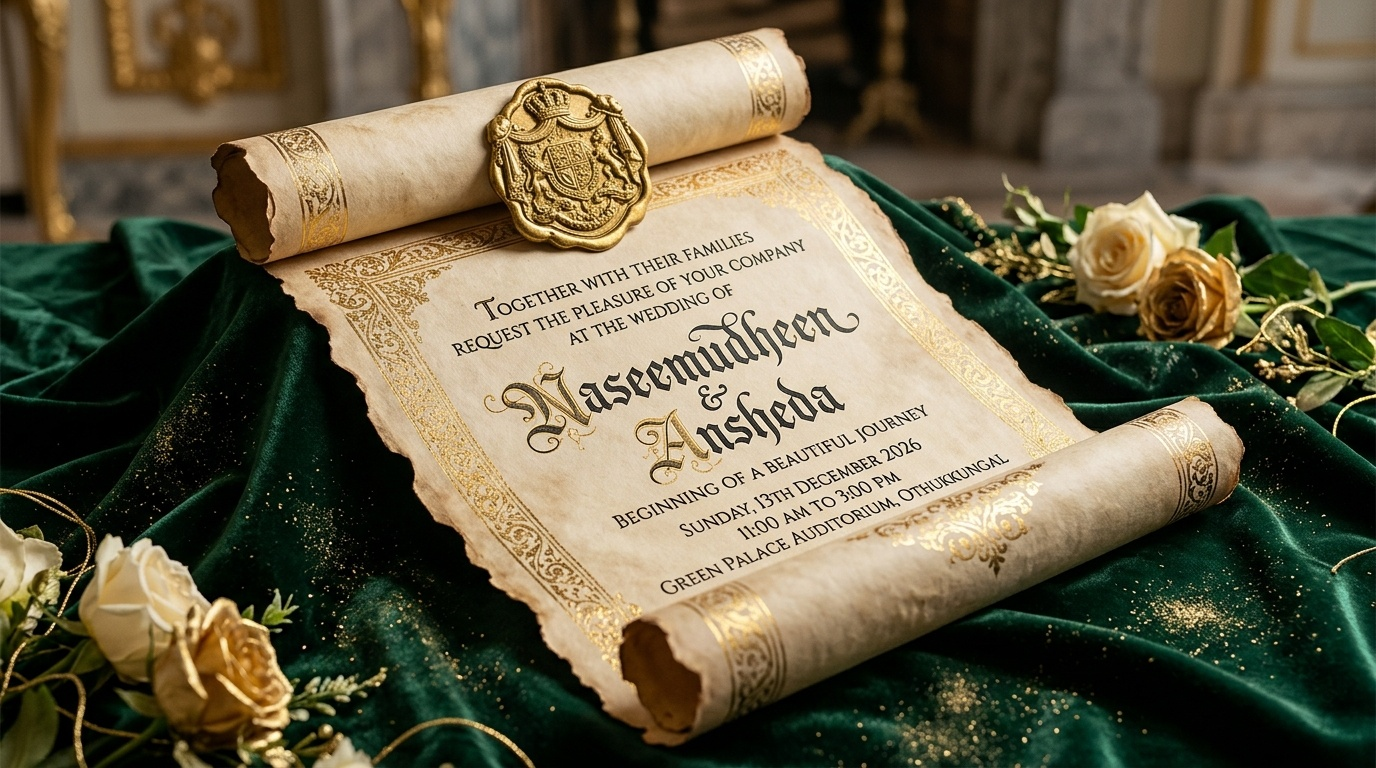
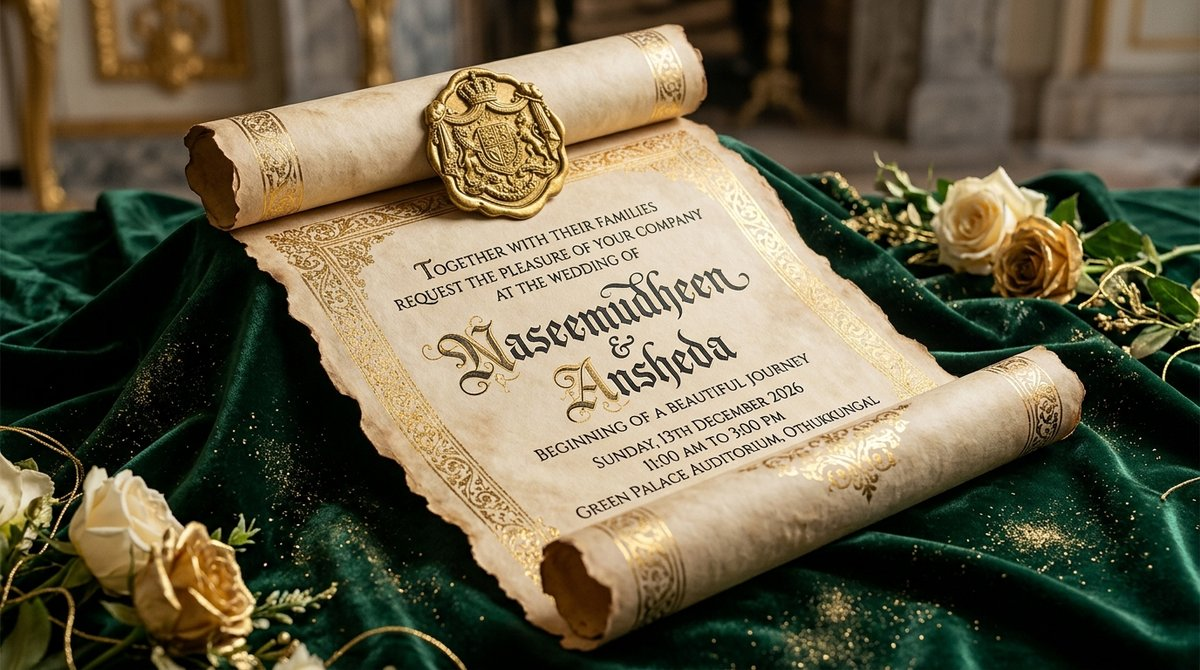
fix(seo): optimize og-image to under 200KB JPEG for WhatsApp link preview

diff --git a/index.html b/index.html
@@ -8,9 +8,9 @@
     <!-- Open Graph / WhatsApp / Facebook Meta Tags -->
     <meta property="og:title" content="Naseemudheen & Ansheda - Wedding Invitation" />
     <meta property="og:description" content="With joyous hearts, we invite you to celebrate the union of Naseemudheen & Ansheda on Sunday, December 13, 2026 at Green Palace Auditorium, Othukkungal. Join us for our wedding celebration." />
-    <meta property="og:image" content="https://naseem-weds-ansheda.vercel.app/og-image.png?v=5" />
-    <meta property="og:image:secure_url" content="https://naseem-weds-ansheda.vercel.app/og-image.png?v=5" />
-    <meta property="og:image:type" content="image/png" />
+    <meta property="og:image" content="https://naseem-weds-ansheda.vercel.app/og-image.jpg?v=7" />
+    <meta property="og:image:secure_url" content="https://naseem-weds-ansheda.vercel.app/og-image.jpg?v=7" />
+    <meta property="og:image:type" content="image/jpeg" />
     <meta property="og:image:width" content="1200" />
     <meta property="og:image:height" content="670" />
     <meta property="og:image:alt" content="Naseemudheen & Ansheda - Wedding Invitation" />
@@ -24,7 +24,7 @@
     <meta name="twitter:card" content="summary_large_image" />
     <meta name="twitter:title" content="Naseemudheen & Ansheda - Wedding Invitation" />
     <meta name="twitter:description" content="With joyous hearts, we invite you to celebrate the union of Naseemudheen & Ansheda on Sunday, December 13, 2026 at Green Palace Auditorium, Othukkungal. Join us for our wedding celebration." />
-    <meta name="twitter:image" content="https://naseem-weds-ansheda.vercel.app/og-image.png?v=5" />
+    <meta name="twitter:image" content="https://naseem-weds-ansheda.vercel.app/og-image.jpg?v=7" />
     
     <!-- Web App Manifest / Theme -->
     <meta name="apple-mobile-web-app-capable" content="yes" />
